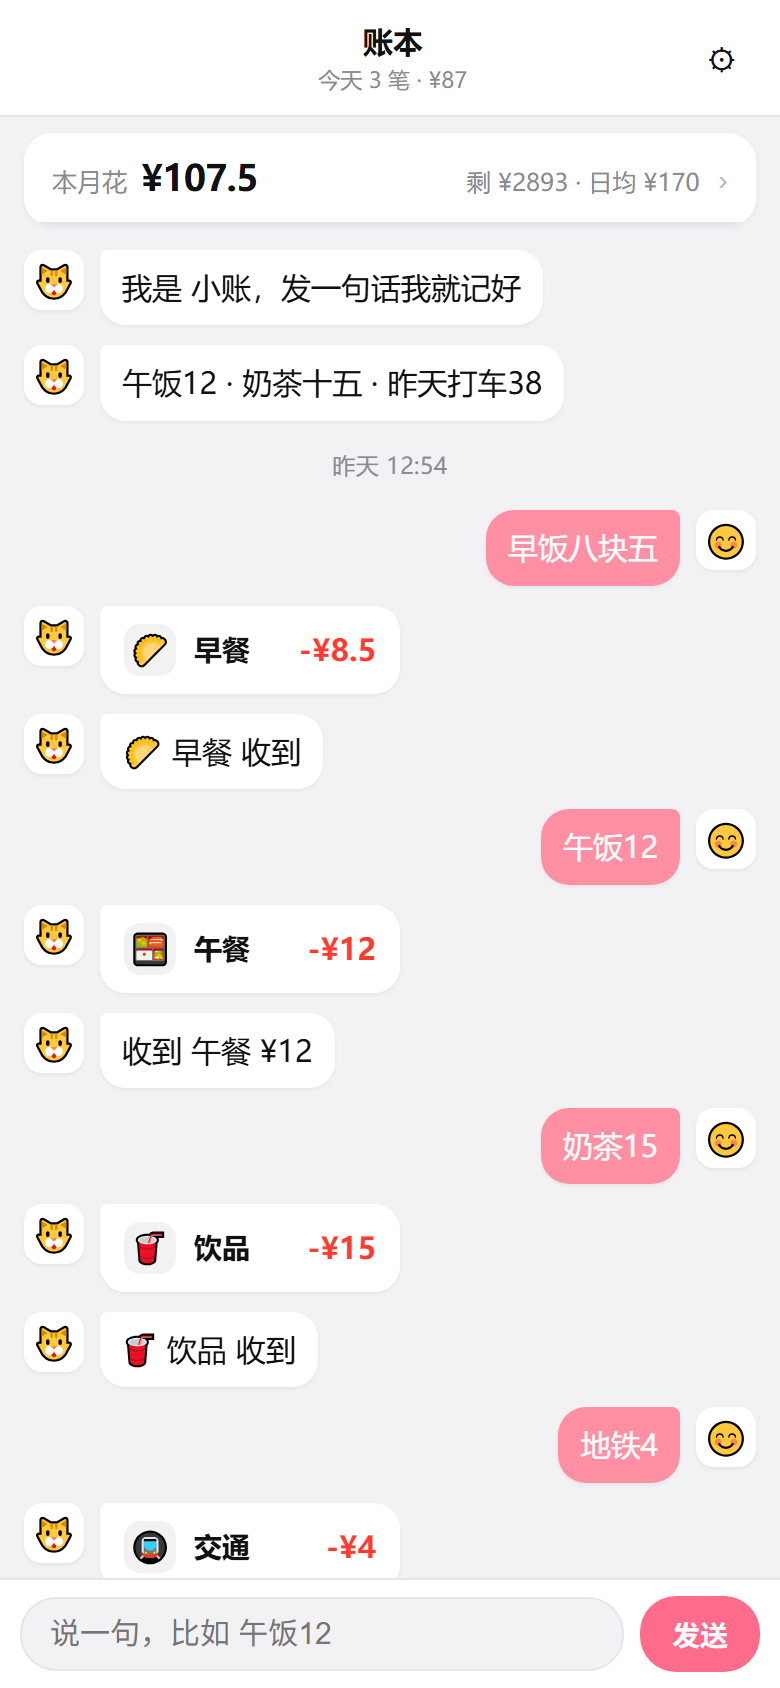
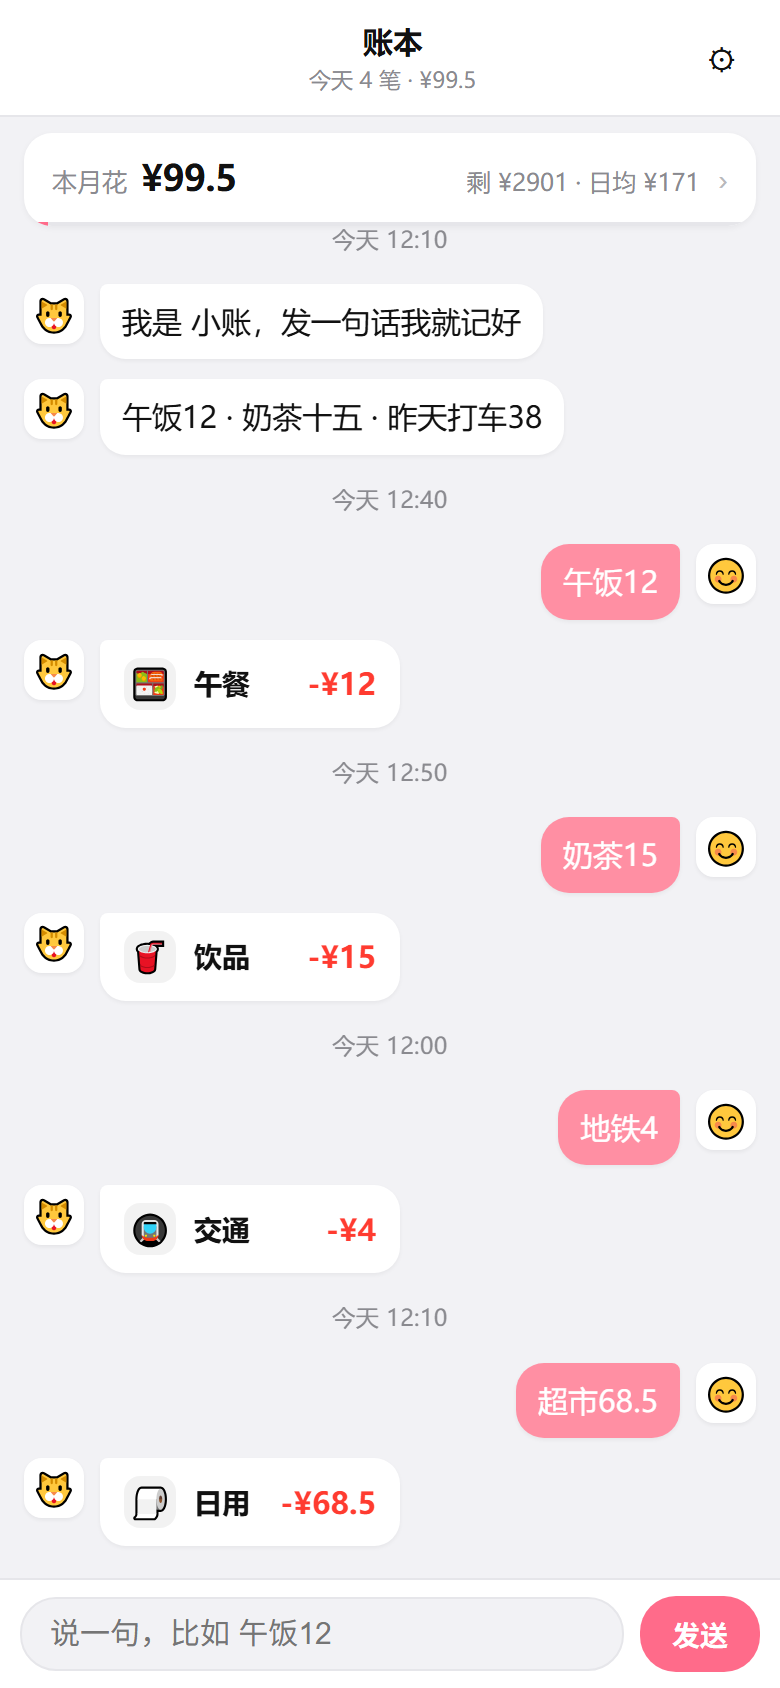
fix: 记账不再刷评价台词，分类识别支持购物/日用品，不再乱猜时段

diff --git a/index.html b/index.html
@@ -134,8 +134,8 @@ var CATS=[
  {k:"饮品",e:"🥤",ws:["奶茶","咖啡","瑞幸","星巴克","可乐","柠檬茶","果汁","蜜雪","喜茶","霸王茶姬","茶百道","纯茶"]},
  {k:"零食",e:"🍪",ws:["零食","薯片","巧克力","饼干","水果","西瓜","苹果","香蕉","冰淇淋","雪糕","蛋糕","面包"]},
  {k:"交通",e:"🚇",ws:["打车","滴滴","地铁","公交","高铁","火车","加油","停车","机票","单车","顺风车"]},
- {k:"日用",e:"🧻",ws:["抽纸","纸巾","日用","洗发水","牙膏","洗衣液","超市","便利店","垃圾袋","沐浴露"]},
- {k:"购物",e:"🛍",ws:["衣服","鞋","淘宝","京东","拼多多","网购","快递","化妆品","护肤品","耳机"]},
+ {k:"日用",e:"🧻",ws:["抽纸","纸巾","日用","洗发水","牙膏","洗衣液","超市","便利店","垃圾袋","沐浴露","秤","体重秤","收纳","拖把","台灯","垃圾桶"]},
+ {k:"购物",e:"🛍",ws:["衣服","鞋","淘宝","京东","拼多多","网购","快递","化妆品","护肤品","耳机","壳","保护壳","手机壳","平板","充电","数据线","充电器","配件","键盘","鼠标","显示器","家电","手表","眼镜"]},
  {k:"居住",e:"🏠",ws:["房租","水电","燃气","物业","电费","水费"]},
  {k:"通讯",e:"📱",ws:["话费","流量","宽带","会员","订阅","网费","iCloud"]},
  {k:"娱乐",e:"🎮",ws:["电影","游戏","KTV","门票","演出","充值","皮肤","桌游","演唱会"]},
@@ -177,11 +177,21 @@ function pickAmount(text,catHit){
 function pickCat(text){
   for(var i=0;i<CATS.length;i++){var c=CATS[i];
     for(var j=0;j<c.ws.length;j++){if(text.indexOf(c.ws[j])>-1)return{c:c,hit:c.ws[j],conf:0.9};}}
-  var h=new Date().getHours();
-  if(h<10)return{c:CATS[0],hit:null,conf:0.5};
-  if(h<15)return{c:CATS[1],hit:null,conf:0.5};
-  if(h<22)return{c:CATS[2],hit:null,conf:0.5};
-  return{c:CATS[15],hit:null,conf:0.4};}
+  /* 没命中关键词：只有「几乎就是个金额」时才按时段猜，带实义字的（如「平板保护壳」）一律记成「其他」 */
+  var rest=text
+    .replace(/[0-9]+(?:\.[0-9]{1,2})?/g,"")
+    .replace(/[零〇一二两三四五六七八九十百千万]+/g,"")
+    .replace(/块钱|块|元|角|毛|RMB|¥/g,"")
+    .replace(/昨天|前天|今早|今天|刚才|上午|下午|中午|早上|晚上|凌晨|夜里|夜宵|早餐时间/g,"")
+    .replace(/[\s,，。.!！?？、~～\-+\/]/g,"");
+  if(!rest.length){
+    var h=new Date().getHours();
+    if(h<5)return{c:CATS[2],hit:"amount",conf:0.6};
+    if(h<10)return{c:CATS[0],hit:"amount",conf:0.75};
+    if(h<15)return{c:CATS[1],hit:"amount",conf:0.75};
+    return{c:CATS[2],hit:"amount",conf:0.75};
+  }
+  return{c:CATS[15],hit:null,conf:0.45};}
 function parse(text){
   var pc=pickCat(text);
   var amount=pickAmount(text,!!pc.hit);
@@ -195,25 +205,24 @@ function parse(text){
 /* ---------- 记账 ---------- */
 var TYPING_MS=520;
 function addEntry(p){
-  var e={id:uid(),ts:p.ts,amount:Math.round(p.amount*100)/100,cat:p.cat,emoji:p.emoji,income:p.income,note:p.note};
+  var e={id:uid(),ts:p.ts,amount:Math.round(p.amount*100)/100,cat:p.cat,emoji:p.emoji,income:p.income,conf:p.conf,note:p.note};
   S.entries.push(e);
   S.msgs.push({id:uid(),ts:Date.now(),from:"me",type:"text",text:p.note});
-  save();render();typing(true);
-  setTimeout(function(){
+  save();render();
+  var wantAI=aiOn();
+  var local=reply(e);
+  function push(txt){
     typing(false);
     S.msgs.push({id:uid(),ts:Date.now(),from:"bot",type:"entry",entryId:e.id});
-    var local=reply(e);
-    if(aiOn()){
-      typing(true);
-      aiLine(e,function(txt){
-        typing(false);
-        S.msgs.push({id:uid(),ts:Date.now()+1,from:"bot",type:"text",text:txt||local});
-        save();render();
-      });
-      save();render();return;
-    }
-    if(local)S.msgs.push({id:uid(),ts:Date.now()+1,from:"bot",type:"text",text:local});
+    if(txt)S.msgs.push({id:uid(),ts:Date.now()+1,from:"bot",type:"text",text:txt});
     save();render();
+  }
+  /* 本地模式且没什么非说不可的 —— 直接出账单，不刷评价 */
+  if(!wantAI&&!local){push("");return;}
+  typing(true);
+  setTimeout(function(){
+    if(wantAI){aiLine(e,function(t){push(t||local);});return;}
+    push(local);
   },TYPING_MS);
 }
 /* 微信式「对方正在输入…」 */
@@ -266,67 +275,20 @@ function monthEntries(){var d=new Date(),y=d.getFullYear(),m=d.getMonth();
   return S.entries.filter(function(e){var t=new Date(e.ts);return t.getFullYear()===y&&t.getMonth()===m;});}
 function sum(list){return list.reduce(function(a,e){return a+(e.income?-e.amount:e.amount);},0);}
 /* ---------- 角色台词 ---------- */
-/* 台词引擎：按条件分层抽，且避开上一句，避免复读 */
-/* 最近 3 句都用过的台词不再复用，降复读 */
-function recentBotTexts(){
-  var out=[];
-  for(var i=S.msgs.length-1;i>=0&&out.length<3;i--){var m=S.msgs[i];
-    if(m.from==="bot"&&m.type==="text")out.push(m.text);}
-  return out;
-}
-function pick(pool){
-  if(!pool.length)return "";
-  var recent=recentBotTexts();
-  var f=pool.filter(function(t){return recent.indexOf(t)<0;});
-  if(!f.length)f=pool.filter(function(t){return t!==recent[0];});
-  if(!f.length)f=pool;
-  return f[Math.floor(Math.random()*f.length)];
-}
-/* 有情绪的条件台词只占四成，其余走平实的记账确认，避免句句都在演 */
-function pickMix(hot,cold){
-  var useHot=hot.length&&Math.random()<0.4;
-  return pick(useHot?hot:cold);
-}
-function todayOut(){
-  var t0=new Date();t0.setHours(0,0,0,0);
-  return sum(S.entries.filter(function(e){return e.ts>=t0.getTime()&&!e.income;}));
-}
-function todayN(){return S.entries.filter(function(e){return new Date(e.ts).toDateString()===new Date().toDateString();}).length;}
+/* 原则：记账只出账单卡片，不刷评价。只在用户真需要知道时才说一句。 */
 function reply(e){
+  if(e.income)return "";
   var me=monthEntries().filter(function(x){return !x.income;});
-  var catN=me.filter(function(x){return x.cat===e.cat;}).length;
-  var out=sum(me);
-  var budget=S.settings.budget||0;
-  var now=new Date();
-  var dim=new Date(now.getFullYear(),now.getMonth()+1,0).getDate();
-  var leftDays=Math.max(1,dim-now.getDate()+1);
-  var left=budget-out;
-  var daily=left/leftDays;
-  var h=now.getHours();
-  var n=todayN();
-
-  if(e.income){
-    return pick(["进账 "+money(e.amount)+"，钱包回血 💰","收到 "+money(e.amount)+"，记上了～","这笔是收入，不是花出去的 🙂","本月收入 +"+money(e.amount)+"，不错"]);
+  var out=sum(me),budget=S.settings.budget||0,left=budget-out;
+  /* 1) 分类是猜的 —— 必须告诉用户，否则记错了他不知道 */
+  if(e.conf&&e.conf<0.7)return "没听出是什么，先记成「"+e.cat+"」，点卡片能改";
+  /* 2) 本月第一次超支 —— 说一次，不重复念 */
+  if(budget>0&&left<0){
+    var d=new Date(),mk=d.getFullYear()+"-"+(d.getMonth()+1);
+    if(S.oversaid!==mk){S.oversaid=mk;return "这个月超了 "+money(-left);}
   }
-  /* 特殊条件台词（优先级高） */
-  var hot=[],cold=[];
-  if(e.conf&&e.conf<0.7)hot.push("没太看懂分类，先记成「"+e.cat+"」了，点气泡能改");
-  if(left<0)hot.push("本月已经超了 "+money(left)+"，我不说风凉话了 😐","超支 "+money(left)+"，这月还剩 "+leftDays+" 天…","预算破了，接下来只能看着办了 😶");
-  else if(daily<15)hot.push("日均只剩 "+money(daily)+"，还有 "+leftDays+" 天，悠着点","这么花下去月底要吃土");
-  else if(daily>200)hot.push("日均还有 "+money(daily)+" 可花，今天挺松");
-  if(e.amount>=200)hot.push(money(e.amount)+"……这笔不小 😳");
-  else if(e.amount>=100)hot.push("又是三位数，记上了");
-  if(e.amount<=5)hot.push("才 "+money(e.amount)+"，很克制 👍");
-  if(catN>=5)hot.push("这个月第 "+catN+" 次「"+e.cat+"」了 "+e.emoji+" 有点上头","「"+e.cat+"」第 "+catN+" 次，我没数错吧");
-  else if(catN===3)hot.push("「"+e.cat+"」这个月第 3 次了 "+e.emoji);
-  var dk=new Date().toDateString();
-  if((h>=23||h<5)&&S.nightSaid!==dk){hot.push("这个点还在花钱，夜猫子 🌙");S.nightSaid=dk;}
-  else if(h<9&&e.cat==="早餐")hot.push("早饭吃了 "+money(e.amount)+"，今天开局不错");
-  if(n>0)cold.push("记好了 ✓ 今天 "+n+" 笔 · "+money(todayOut()));
-  cold.push("已记 ✓ 本月花掉 "+money(out),"嗯，"+e.cat+" "+money(e.amount)+"，收到",
-    e.emoji+" "+e.cat+" 收到","好，"+money(e.amount)+" 记下了","收到 "+e.cat+" "+money(e.amount),
-    e.cat+" "+money(e.amount)+" ✓","嗯嗯，记上了");
-  return pickMix(hot,cold);}
+  return "";
+}
 /* ---------- 渲染 ---------- */
 function money(v){var n=Math.abs(v);var s=n>=1000?n.toFixed(0):n.toFixed(2);s=s.replace(/\.00$/,"").replace(/(\.\d)0$/,"$1");return "¥"+s;}
 function esc(s){return String(s).replace(/[&<>"]/g,function(c){return {"&":"&amp;","<":"&lt;",">":"&gt;","\"":"&quot;"}[c];});}
@@ -448,6 +410,7 @@ function openSettings(){
   panel.innerHTML=h;sheet.classList.add("on");
   panel.querySelector("#setClose").onclick=closeSheet;
   panel.querySelector("#fSave").onclick=function(){
+    var aiBefore=JSON.stringify(aiCfg());
     S.settings.budget=parseFloat(panel.querySelector("#fBudget").value)||0;
     S.settings.name=panel.querySelector("#fName").value||"小账";
     S.settings.avatar=panel.querySelector("#fAvatar").value||"🐱";
@@ -455,9 +418,10 @@ function openSettings(){
     S.settings.aiKey=panel.querySelector("#fAiKey").value.trim();
     S.settings.aiModel=panel.querySelector("#fAiModel").value.trim();
     save();render();closeSheet();
-    S.msgs.push({id:uid(),ts:Date.now(),from:"bot",type:"text",
-      text:aiOn()?"接上了，之后我用模型回你（花的钱你自己账号出）。":"已切回本地台词，零成本。"});
-    save();render();};
+    if(aiBefore!==JSON.stringify(aiCfg())){
+      S.msgs.push({id:uid(),ts:Date.now(),from:"bot",type:"text",text:aiOn()?"已连上模型":"已用回本地"});
+      save();render();
+    }};
   panel.querySelector("#fExport").onclick=function(){
     var blob=new Blob([JSON.stringify(S,null,1)],{type:"application/json"});
     var a=document.createElement("a");a.href=URL.createObjectURL(blob);

diff --git a/sw.js b/sw.js
@@ -1,5 +1,5 @@
 /* 聊记 Service Worker —— 离线可用；页面走「先网络后缓存」，改完文件刷新就能看到新版 */
-const CACHE = 'chatledger-v4';
+const CACHE = 'chatledger-v5';
 const ASSETS = ['./', './index.html', './manifest.json', './icon-192.png', './icon-512.png', './apple-touch-icon.png'];
 
 self.addEventListener('install', (e) => {

diff --git a/README.md b/README.md
@@ -12,7 +12,7 @@
 |---|---|
 | 一句话记账 | 输入「午饭12」「奶茶十五」「昨天打车38」「早饭八块五」，自动认金额 + 认分类 |
 | 聊天流 UI | 你的话是右边的粉色气泡，账目是左边角色发来的卡片，气泡点开可「修改分类 / 删除」 |
-| 角色搭话 | 按本月第 N 次同类消费、单笔 ≥100、预算超支、日均剩余、深夜/早上等 9 类条件回不同台词；有「对方正在输入…」；最近 3 句不重复 |
+| 角色台词 | 默认沉默，只出账单卡片。仅三种情况说一句：分类没认出来、本月第一次超支、每类满第 10 笔。有「对方正在输入…」 |
 | 预算条 | 一行：本月花多少 / 剩多少 · 日均多少；超支变红。点它打开统计 |
 | 统计 | 按月分类排行 + 最近 14 天柱状图 |
 | 离线可用 | Service Worker 缓存，断网也能记 |
@@ -182,7 +182,7 @@ iPhone 连同一个 WiFi，用 **Safari** 打开这个地址，就能用。
 - 无构建、无依赖、无框架。改完直接刷新。
 - 数据结构：`localStorage["chatledger.v2"] = { settings:{budget,name,avatar,aiUrl,aiKey,aiModel}, entries:[], msgs:[], seeded, lastOpen }`。
 - 解析入口 `parse(text)`；台词入口 `reply(entry)`；记账 `addEntry(parsed)`；渲染 `render()`。
-- 台词分两层：`hot`（有情绪的条件句，只占约 40%）与 `cold`（平实的记账确认）。`pickMix(hot,cold)` 决定这次说哪层，`pick()` 负责避开最近 3 句。加台词只要往这两个数组里 push。
+- 台词走「静默优先」：`reply(entry)` 绝大多数情况返回空字符串，于是 `addEntry` 不出打字动画、不推文本气泡，只落一张账单卡片。只有三种情况返回非空：`conf<0.7`（分类是猜的）、本月首次 `left<0`（用 `S.oversaid` 记录当月只说一次）、同类第 10 笔。要加台词就往 `reply()` 里加 return 分支。
 - 加分类只需往 `CATS` 里加 `{k,e,ws:[]}`；`income:true` 表示收入类。
 - 改完 `sw.js` 里的 `CACHE = 'chatledger-vN'` 版本号，否则手机上的旧缓存不会更新。
 
@@ -192,4 +192,4 @@ iPhone 连同一个 WiFi，用 **Safari** 打开这个地址，就能用。
 
 - 数据只在本机浏览器，**清缓存/删 App 就没了**，定期用「导出备份」。
 - 没有多设备同步、没有多账本、没有账目编辑金额（只能改分类/删除，需要重记）。
-- 角色台词是模板池随机抽：已做「最近 3 句不重复」+「情绪句只占四成」，但仍会听出是模板；接了模型才有真正的多样性。
+- 台词数少是刻意的：记账是高频动作，每次都评价会烦。想换真人感就在设置里接自己的模型，本地只保留「非说不可」的三条。
